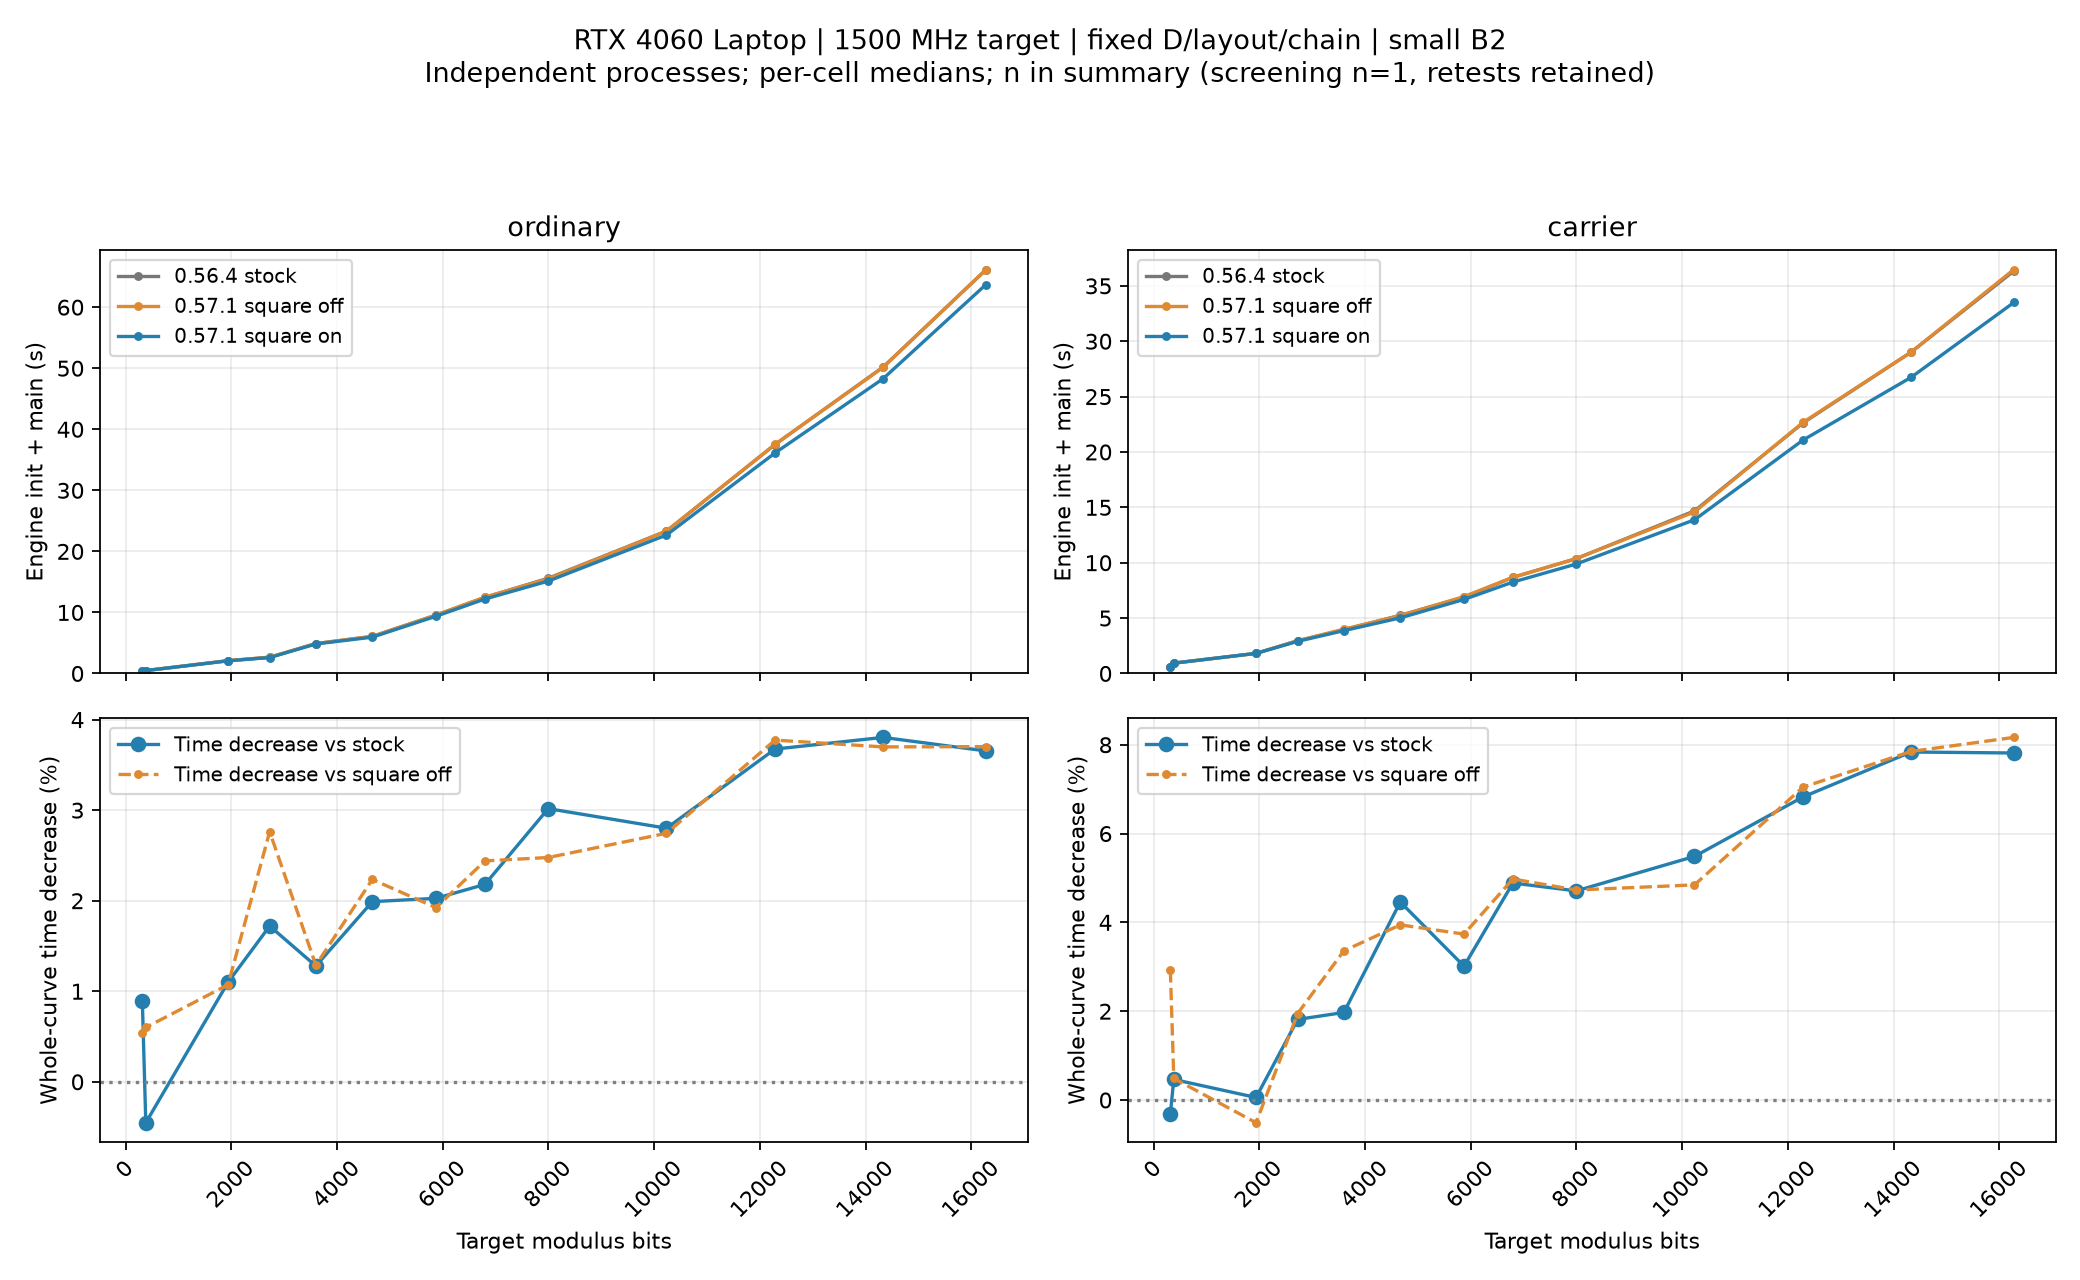
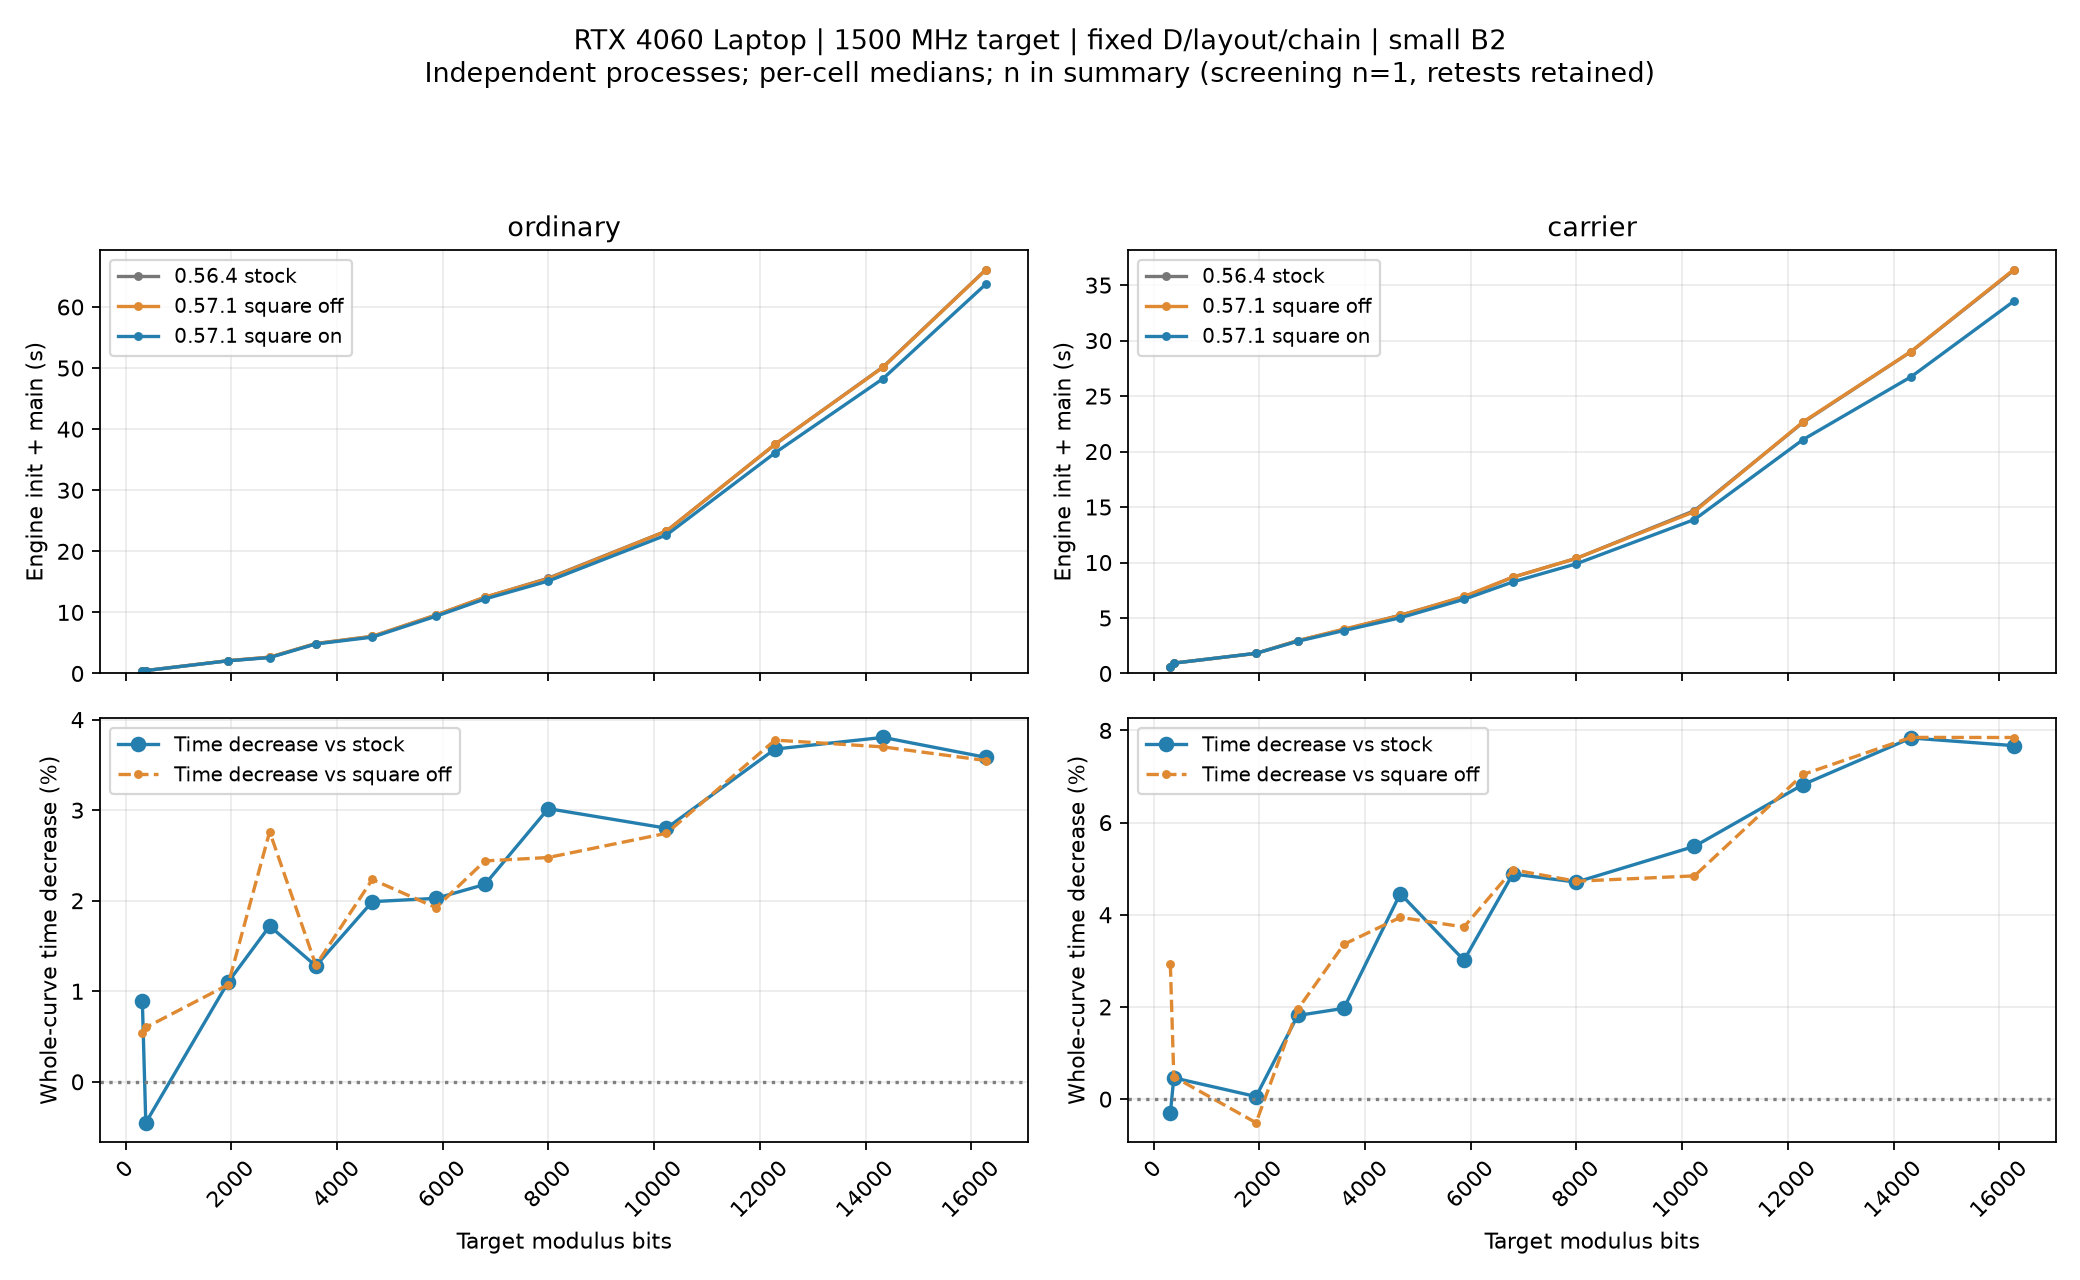
[0.57.2] perf(stage2): enable qualified point squaring by default

diff --git a/tools/test/test_stage2_point_square_native.py b/tools/test/test_stage2_point_square_native.py
@@ -1,0 +1,122 @@
+"""Check the production square default, override, validation and queue child.
+
+Use an independent sigma=26, B1=20 M127 save. Each valid case runs a complete
+small Stage2; this is a correctness test, not a performance measurement.
+"""
+import argparse
+import hashlib
+import json
+import os
+from pathlib import Path
+import re
+import shutil
+import subprocess
+import sys
+
+sys.path.insert(0, str(Path(__file__).resolve().parents[1] / 'bench'))
+from bench_stage2_version import check_gpu_processes, write
+from gpu_telemetry import TelemetryRecorder
+from result_format import normalize_result
+
+
+def sha(path):
+    return hashlib.sha256(path.read_bytes()).hexdigest()
+
+
+def main():
+    p = argparse.ArgumentParser(description=__doc__)
+    p.add_argument('--exe', type=Path, required=True)
+    p.add_argument('--save', type=Path, required=True)
+    p.add_argument('--output', type=Path, required=True)
+    p.add_argument('--device', type=int, default=1)
+    p.add_argument('--allow-gpu-pid', type=int, action='append', default=[])
+    a = p.parse_args()
+    out = a.output.resolve()
+    out.mkdir(parents=True, exist_ok=False)
+    binary = out / 'bin'
+    binary.mkdir()
+    (binary / '.gitignore').write_text('*\n')
+    for source in (a.exe.resolve(), a.exe.resolve().parent / 'gmp-10.dll',
+                   a.exe.resolve().parent / 'build_manifest.json'):
+        shutil.copy2(source, binary / source.name)
+    exe = binary / a.exe.name
+    shutil.copy2(__file__, out / 'test_snapshot.py')
+    identity = sha(exe)
+    env = {k: v for k, v in os.environ.items() if not k.startswith(('NTT_', 'ECM_'))
+           and k not in ('CUDA_VISIBLE_DEVICES', 'CUDA_LAUNCH_BLOCKING')}
+    allowed = []
+    processes = subprocess.check_output(['nvidia-smi', '--query-compute-apps=gpu_uuid,pid,process_name',
+                                         '--format=csv,noheader'], text=True)
+    for pid in a.allow_gpu_pid:
+        names = {line.split(',', 2)[2].strip() for line in processes.splitlines()
+                 if line.split(',')[1].strip() == str(pid)}
+        if len(names) != 1 or not Path(next(iter(names))).is_absolute():
+            raise ValueError('Cannot bind allowed process identity')
+        allowed.append(dict(pid=pid, process_name=next(iter(names))))
+    report = dict(complete=False, exe_sha256=identity, dll_sha256=sha(binary / 'gmp-10.dll'),
+                  allowed_processes=allowed, cases=[], failures=[])
+    write(out / 'summary.json', report)
+    telemetry = TelemetryRecorder(a.device, out / 'telemetry.jsonl', interval=.2)
+    cases = [('default', None, 1, False), ('off', '0', 0, False), ('on', '1', 1, False),
+             ('invalid_two', '2', None, False), ('invalid_negative', '-1', None, False),
+             ('invalid_float', '1.0', None, False), ('queue_default', None, 1, True)]
+    try:
+        for name, value, expected, queued in cases:
+            directory = out / name
+            directory.mkdir()
+            shutil.copy2(a.save, directory / 'prime127.save')
+            config = directory / 'ecm.toml'
+            queue = directory / 'worktodo.txt'
+            queue.write_text('ECMSTAGE2=1,2,127,-1,"prime127.save",13230,0,1\n', encoding='utf-8')
+            config.write_text('[shared]\nworktodo=' + json.dumps(str(queue)) + '\n[stage2]\n'
+                              'stage2_tune_runtime=false\nstage2_short_calibration=false\n', encoding='utf-8')
+            command = [str(exe), '--config', str(config), '--device', str(a.device), '--d', '210',
+                       '--tune-profile', str(directory / 'absent_tune.toml'),
+                       '--results', str(directory / 'results.jsonl'),
+                       '--submission', str(directory / 'submission.txt'),
+                       '--log', str(directory / 'engine.log'),
+                       '--debug-log-file', str(directory / 'debug.log')]
+            command += ['--worker', '1', '--once'] if queued else [
+                '--save', str(directory / 'prime127.save'), '--curves', '1', '--b2', '13230', '--factor-only']
+            runenv = env.copy()
+            if value is not None:
+                runenv['NTT_POINT_SQUARE'] = value
+            write(directory / 'command.json', dict(argv=command, square=value))
+            check_gpu_processes(telemetry.monitor, out, directory / 'before.json', allowed=allowed)
+            assert sha(exe) == identity, 'Frozen binary changed'
+            result = subprocess.run(command, cwd=directory, env=runenv, capture_output=True, timeout=60)
+            text = (result.stdout + result.stderr).decode('utf-8', errors='replace')
+            (directory / 'console.log').write_text(text, encoding='utf-8')
+            check_gpu_processes(telemetry.monitor, out, directory / 'after.json', allowed=allowed)
+            if expected is None:
+                assert result.returncode != 0 and 'NTT_POINT_SQUARE' in text, text
+            else:
+                assert result.returncode == 0, text
+                trace = text + '\n' + (directory / 'debug.log').read_text(encoding='utf-8')
+                modes = re.findall(r'point_square_mode: enabled=([01])', trace)
+                assert modes and set(modes) == {str(expected)}, modes
+                squares = re.findall(r'square_selftest: cases=(\d+) mismatches=(\d+)', trace)
+                assert (bool(squares) == bool(expected)) and all(x == ('128', '0') for x in squares), squares
+                assert re.search(r'mont_selftest:.*mismatches=0', trace), trace
+                records = [json.loads(line) for line in (directory / 'results.jsonl').read_text(
+                    encoding='utf-8-sig').splitlines() if line.strip()]
+                assert len(records) == 1 and records[0]['status'] == 'NF', records
+                assert records[0]['source-build'].lower() == identity
+                normalized = normalize_result(records[0])
+                assert int(normalized['N_hex'], 16) == (1 << 127) - 1
+                assert (normalized['B1'], normalized['B2'], normalized['sigma']) == (20, 13230, 26)
+                assert not normalized['factors'] and not normalized['bad_factors']
+            report['cases'].append(dict(name=name, returncode=result.returncode, enabled=expected))
+            write(out / 'summary.json', report)
+            print(f'PASS: {name}', flush=True)
+        report['complete'] = True
+    except Exception as error:
+        report['failures'].append(str(error))
+        raise
+    finally:
+        telemetry.close()
+        write(out / 'summary.json', report)
+
+
+if __name__ == '__main__':
+    main()

diff --git a/tools/bench/bench_stage2_square_curves.py b/tools/bench/bench_stage2_square_curves.py
@@ -39,6 +39,7 @@ def main():
     p.add_argument('--output',type=Path,required=True)
     p.add_argument('--bits',default='10232,12285,16272')
     p.add_argument('--rounds',type=int,default=1)
+    p.add_argument('--reverse-first',action='store_true',help='Reverse treatments on the first pass for independent retests')
     p.add_argument('--allow-gpu-pid',type=int,action='append',default=[])
     p.add_argument('--diagnostic',action='store_true')
     a=p.parse_args();out=a.output.resolve();out.mkdir(parents=True,exist_ok=False)
@@ -75,7 +76,7 @@ def main():
                 source=Path(cell['evidence']);key=f"n{cell['target_bits']}_{cell['family']}"
                 treatments=['off','on']
                 if a.stock and round==0:treatments=['stock',*treatments]
-                if round%2:treatments.reverse()
+                if (round+int(a.reverse_first))%2:treatments.reverse()
                 for treatment in treatments:
                     directory=out/f'{len(report["rows"]):03d}_{key}_{treatment}';directory.mkdir()
                     name='stock' if treatment=='stock' else 'candidate'

diff --git a/src/ecm/stage2/planning/planning.cpp b/src/ecm/stage2/planning/planning.cpp
@@ -1748,6 +1748,7 @@ std::string select_auto(Options &o,const Record &r,bool apply) {
     require("NTT_HOST_EVENT_WAIT",0,0);
     require("NTT_HOST_READBACK_WAIT",0,0);
     require("NTT_S4_TIMING_FIFO",0,1);
+    require("NTT_POINT_SQUARE",0,0); // Legacy measured MAC costs use generic squares.
     for(const char *key:{"NTT_XADD6","NTT_BABY_DEVICE","NTT_POINT_MERSENNE","NTT_SMALL_PRIME_REUSE","NTT_GIANT_SEED_DEVICE",
         "NTT_GFINV_SEG_EXACT","NTT_GFINV_BATCH","NTT_FOLD_FLAT","NTT_FOLD_DEVICE","NTT_GROOT_DEVICE","NTT_SCALED_DESCENT",
         "NTT_S4_OUTPUT_WINDOW","NTT_S4_CHUNK_OUTPUT","NTT_DEVICE_GLEAF","NTT_GROOT_TO_FOLD","NTT_S4_ORACLE_ASYNC",

diff --git a/src/ecm/stage2/cuda/checks.cpp b/src/ecm/stage2/cuda/checks.cpp
@@ -769,7 +769,8 @@ int mont_selftest(
         if (mpz_cmp(acc, want) != 0) { if (!bad) first = (unsigned long long)i; ++bad; }
     }
     // Reuse the existing device buffers; retain all 2048 multiplication cases.
-    // Extra square cases exercise the exact production wrapper and r==a.
+    // Extra square cases exercise the production wrapper with equal inputs and
+    // an in-place kernel output; the standalone probe also aliases the primitive.
     unsigned long long square_bad=0;
     if(square_enabled) {
         constexpr int square_cases=128;

diff --git a/src/ecm/stage2/cuda/options.cpp b/src/ecm/stage2/cuda/options.cpp
@@ -29,7 +29,7 @@ struct ProductionDefaults {
         set_default("NTT_HOST_EVENT_WAIT", "0");
         set_default("NTT_HOST_READBACK_WAIT", "0");
         set_default("NTT_S4_TIMING_FIFO", "1");
-        set_default("NTT_POINT_SQUARE", "0"); // Experimental until full-curve A/B passes.
+        set_default("NTT_POINT_SQUARE", "1"); // Qualified fixed-D ordinary/carrier matrix.
         set_default("NTT_FUSE_COOP_OUTER", "2");
         set_default("NTT_GIANT_BASE_CPU", "0");
         set_default("NTT_DEVICE_GLEAF_MAX_MB", "512");

diff --git a/include/ecm/platform/program_version.h b/include/ecm/platform/program_version.h
@@ -3,7 +3,7 @@
 // Public software identity. Source/build fingerprints belong in diagnostics.
 namespace ecm_program {
 inline constexpr char name[] = "ECM-ELF";
-inline constexpr char version[] = "0.57.1";
+inline constexpr char version[] = "0.57.2";
 #if defined(_WIN32)
 inline constexpr char host_os[] = "Windows";
 #elif defined(__ANDROID__)

diff --git a/docs/development/STAGE2_POINT_SQUARE_DRAFT.md b/docs/development/STAGE2_POINT_SQUARE_DRAFT.md
@@ -26,3 +26,13 @@
 `curves_low_full/`已完成13位宽×普通／承载×旧版／off／on各n=1，共78次；固定D／布局／链长和Stage1点。旧版／off／on合计375.369331／375.556822／358.873123秒，on比旧版减少4.39466%，无同时超过5%与20ms的回退格。普通合计减少3.26193%、承载减少6.21371%。NTT长度／归约系数数／G根摘要逐格一致。汇总及图保留于`data/benchmarks/stage2_point_square_20261101/screening/`及对应figures目录。
 
 0.57.1提交可选实现，保持默认关闭；下一步单独验证默认启用与显式关闭／子进程继承，按用户要求递增版本提交。正式当前状态只在位宽报告维护。
+
+## 0.57.2 默认启用资格
+
+补充`correctness_single_step/`，32个位宽×12组合的384次单步检查及一次故障注入通过，与三次依赖平方组成768次合法调用、49152组最终结果、3253248个输出词，两个故障注入均被拒绝。
+
+`curves_high_recheck/`保持相同0.57.1冻结二进制，最高16272位普通／承载采用on先、off后的相反次序，共4次。普通on/off为63.783891／66.024952s，承载33.602216／36.336989s。两轮中位数汇总后，普通／承载合计较旧版减少3.24164%／6.17737%，26格总计375.369331→358.9724085s，减少4.36821%；无明显回退格。新汇总及公开图来自`qualified/`，保留原首轮证据。
+
[1 lines of base64/hex data omitted]
+
[1 lines of base64/hex data omitted]

diff --git a/tools/bench/README_STAGE2_VERSION.md b/tools/bench/README_STAGE2_VERSION.md
@@ -69,6 +69,8 @@ python tools/bench/plot_stage2_version.py `
 
 完整曲线入口`bench_stage2_square_curves.py --summary <位宽分析summary.json> --exe <候选> --stock <旧版> --output <新目录>`复用冻结save、实际B2和D／布局／chain；默认只取10232／12285／16272，可用`--bits`扩宽。`--diagnostic`改用B2=2600000、D2310及完整叶检查，不纳入正常速度。各调用保存二进制／DLL、命令、配置、save、日志、结果、GPU门禁和遥测；只允许通过`--allow-gpu-pid`明确授权并绑定路径的界面上下文。
 
+独立复测可省略`--stock`并指定`--reverse-first`，先on后off，与首轮顺序相反；原始观察保留，不替换首轮。默认值／显式0／显式1／非法值及真实队列子进程由`tools/test/test_stage2_point_square_native.py --exe <生产程序> --save <sigma26、B1=20的独立M127保存点> --output <新目录> --device 1`检查。这是完整小算例的行为测试，不充当性能样本；使用相同进程门禁和显式PID白名单。
+
 离线入口`analyze_stage2_square.py --study <完成的正常研究> --output <新统计目录> --figures <新图目录>`，可用`--extra`合并独立复测，按每格中位数汇总，不把学习或诊断混入；`--public-figures`复制公开PNG。样本数、计时边界和限制见[位宽性能报告](../../docs/performance/STAGE2_BIT_SCALING.md)。所有实验默认写`data/`，不修改设备设置或真实生产队列。
 
 ## 正常运行时选型矩阵

diff --git a/docs/performance/STAGE2.md b/docs/performance/STAGE2.md
@@ -4,7 +4,7 @@
 
 高位宽的当前解释及优化顺序集中在[位宽增长分析](STAGE2_BIT_SCALING.md)：重读52条主矩阵和156条固定D控制，区分点模乘平方项、普通系数归约平方项、NTT长度台阶及线程私有栈；不把经验拟合指数等同于算法O()。
 
-同一报告的点专用平方章节记录可选生产路径、旧版／同二进制off／on的完整小B2矩阵、算术验证、资源占用及当前默认状态；不把原语收益直接当作整条Stage2收益。
+同一报告的点专用平方章节记录默认生产路径、旧版／同二进制off／on的完整小B2矩阵、算术验证、资源占用及显式关闭方式；不把原语收益直接当作整条Stage2收益。
 
 绝对耗时和 NTT 模块显存曲线均提供对数、线性两版，使用完全相同的数据。对数图便于跨数量级观察，线性图便于比较绝对差距；百分比图保持线性坐标。
 
